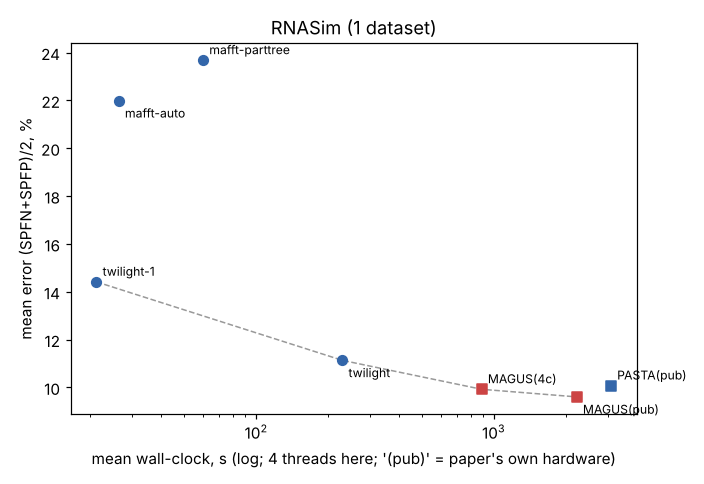
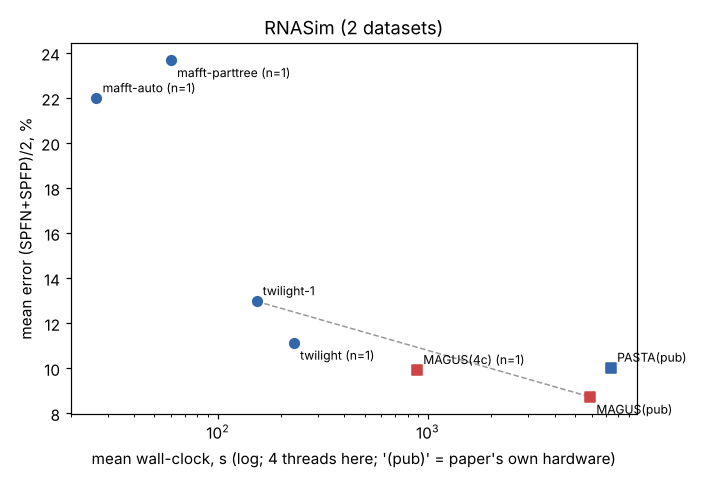
sota2026: late RNASim10K TWILIGHT-1 row (11.5% in 285 s)
Claude-Session: https://claude.ai/code/session_012Rgpxy2uEEPz2XSy4Tz17n

diff --git a/cs581/sota2026/results/full_table.md b/cs581/sota2026/results/full_table.md
@@ -24,6 +24,7 @@ MAGUS(pub)/PASTA(pub) = FastSP on the authors' published alignment of the same r
 | 1000S1_R0 | 8.5 (685s) | 9.8 (1563s) | 11.7 (1769s) | 26.5 (39s) | 96.8 (15s) |  | 97.1 (37s) | 98.8 (16s) |  |  |
 | 1000S2_R0 | 3.5 (476s) | 4.7 (994s) | 5.7 (1530s) | 13.7 (37s) | 96.7 (15s) |  | 96.8 (37s) | 98.9 (16s) |  |  |
 | 1000S3_R0 | 4.5 (533s) | 4.5 (1338s) | 4.9 (1343s) | 24.7 (38s) | 97.2 (16s) |  | 97.7 (38s) | 99.0 (19s) |  |  |
+| RNASim10K_R0 | 7.9 (9592s) |  | 10.0 (11747s) |  | 11.5 (285s) |  |  |  |  |  |
 
 ## Paired comparison vs published MAGUS(Fast), same replicate (Δ = tool − MAGUS, points; W/T/L = tool better/tie(±0.05)/worse; Wilcoxon signed-rank)
 
@@ -36,12 +37,12 @@ MAGUS(pub)/PASTA(pub) = FastSP on the authors' published alignment of the same r
 | ROSE | mafft-auto | 10 | +80.4 | 0/0/10 | 0.002 |
 | ROSE | MAGUS(4c) | 9 | +0.2 | 2/2/5 | 0.57 |
 | ROSE | PASTA(pub) | 10 | +2.1 | 0/0/10 | 0.002 |
-| RNASim | twilight-1 | 1 | +4.8 | 0/0/1 | – |
+| RNASim | twilight-1 | 2 | +4.2 | 0/0/2 | – |
 | RNASim | twilight | 1 | +1.5 | 0/0/1 | – |
 | RNASim | mafft-parttree | 1 | +14.1 | 0/0/1 | – |
 | RNASim | mafft-auto | 1 | +12.4 | 0/0/1 | – |
 | RNASim | MAGUS(4c) | 1 | +0.3 | 0/0/1 | – |
-| RNASim | PASTA(pub) | 1 | +0.5 | 0/0/1 | – |
+| RNASim | PASTA(pub) | 2 | +1.3 | 0/0/2 | – |
 | BAliBASE | famsa | 8 | +7.7 | 0/0/8 | 0.0078 |
 | BAliBASE | twilight-1 | 8 | +10.8 | 0/0/8 | 0.0078 |
 | BAliBASE | twilight | 8 | +9.0 | 0/0/8 | 0.0078 |
@@ -56,13 +57,13 @@ MAGUS(pub)/PASTA(pub) = FastSP on the authors' published alignment of the same r
 | 16S | mafft-auto | 1 | +9.4 | 0/0/1 | – |
 | 16S | PASTA(pub) | 1 | +3.0 | 0/0/1 | – |
 | all | famsa | 19 | +16.5 | 0/0/19 | 3.8e-06 |
-| all | twilight-1 | 20 | +45.0 | 0/0/20 | 1.9e-06 |
+| all | twilight-1 | 21 | +43.0 | 0/0/21 | 9.5e-07 |
 | all | twilight | 12 | +28.6 | 0/0/12 | 0.00049 |
 | all | mafft-parttree | 20 | +45.3 | 0/0/20 | 1.9e-06 |
 | all | mafft-auto | 20 | +43.6 | 0/0/20 | 1.9e-06 |
 | all | mafft-linsi | 3 | +3.9 | 0/0/3 | – |
 | all | MAGUS(4c) | 15 | +0.3 | 2/2/11 | 0.064 |
-| all | PASTA(pub) | 20 | +2.3 | 2/0/18 | 1.9e-05 |
+| all | PASTA(pub) | 21 | +2.3 | 2/0/19 | 9.5e-06 |
 
 ## Diagnostic: same aligner, true tree as guide tree (error %, seconds)
 

diff --git a/cs581/sota2026/REPORT.md b/cs581/sota2026/REPORT.md
@@ -315,7 +315,7 @@ For nucleotides, no.**
 ## 6. Risks and caveats
 
 - **One replicate per condition.**
-  - ROSE results are paired across 10 conditions, not across replicates. RNASim and 16S.T have n = 1. RNASim 10K was planned but not run (out of time).
+  - ROSE results are paired across 10 conditions, not across replicates. RNASim and 16S.T have n = 1. On RNASim 10K, only TWILIGHT (1 iteration) finished before the budget ran out: 11.5% error in 285 s, against 8.3% for published MAGUS (mean of 10 replicates).
   - The gaps are 10–80 points, so this barely matters for Question 1. It does matter for the 0.3–0.5-point merge
     results (n = 5).
 - **MAGUS runtimes are not fresh.**
